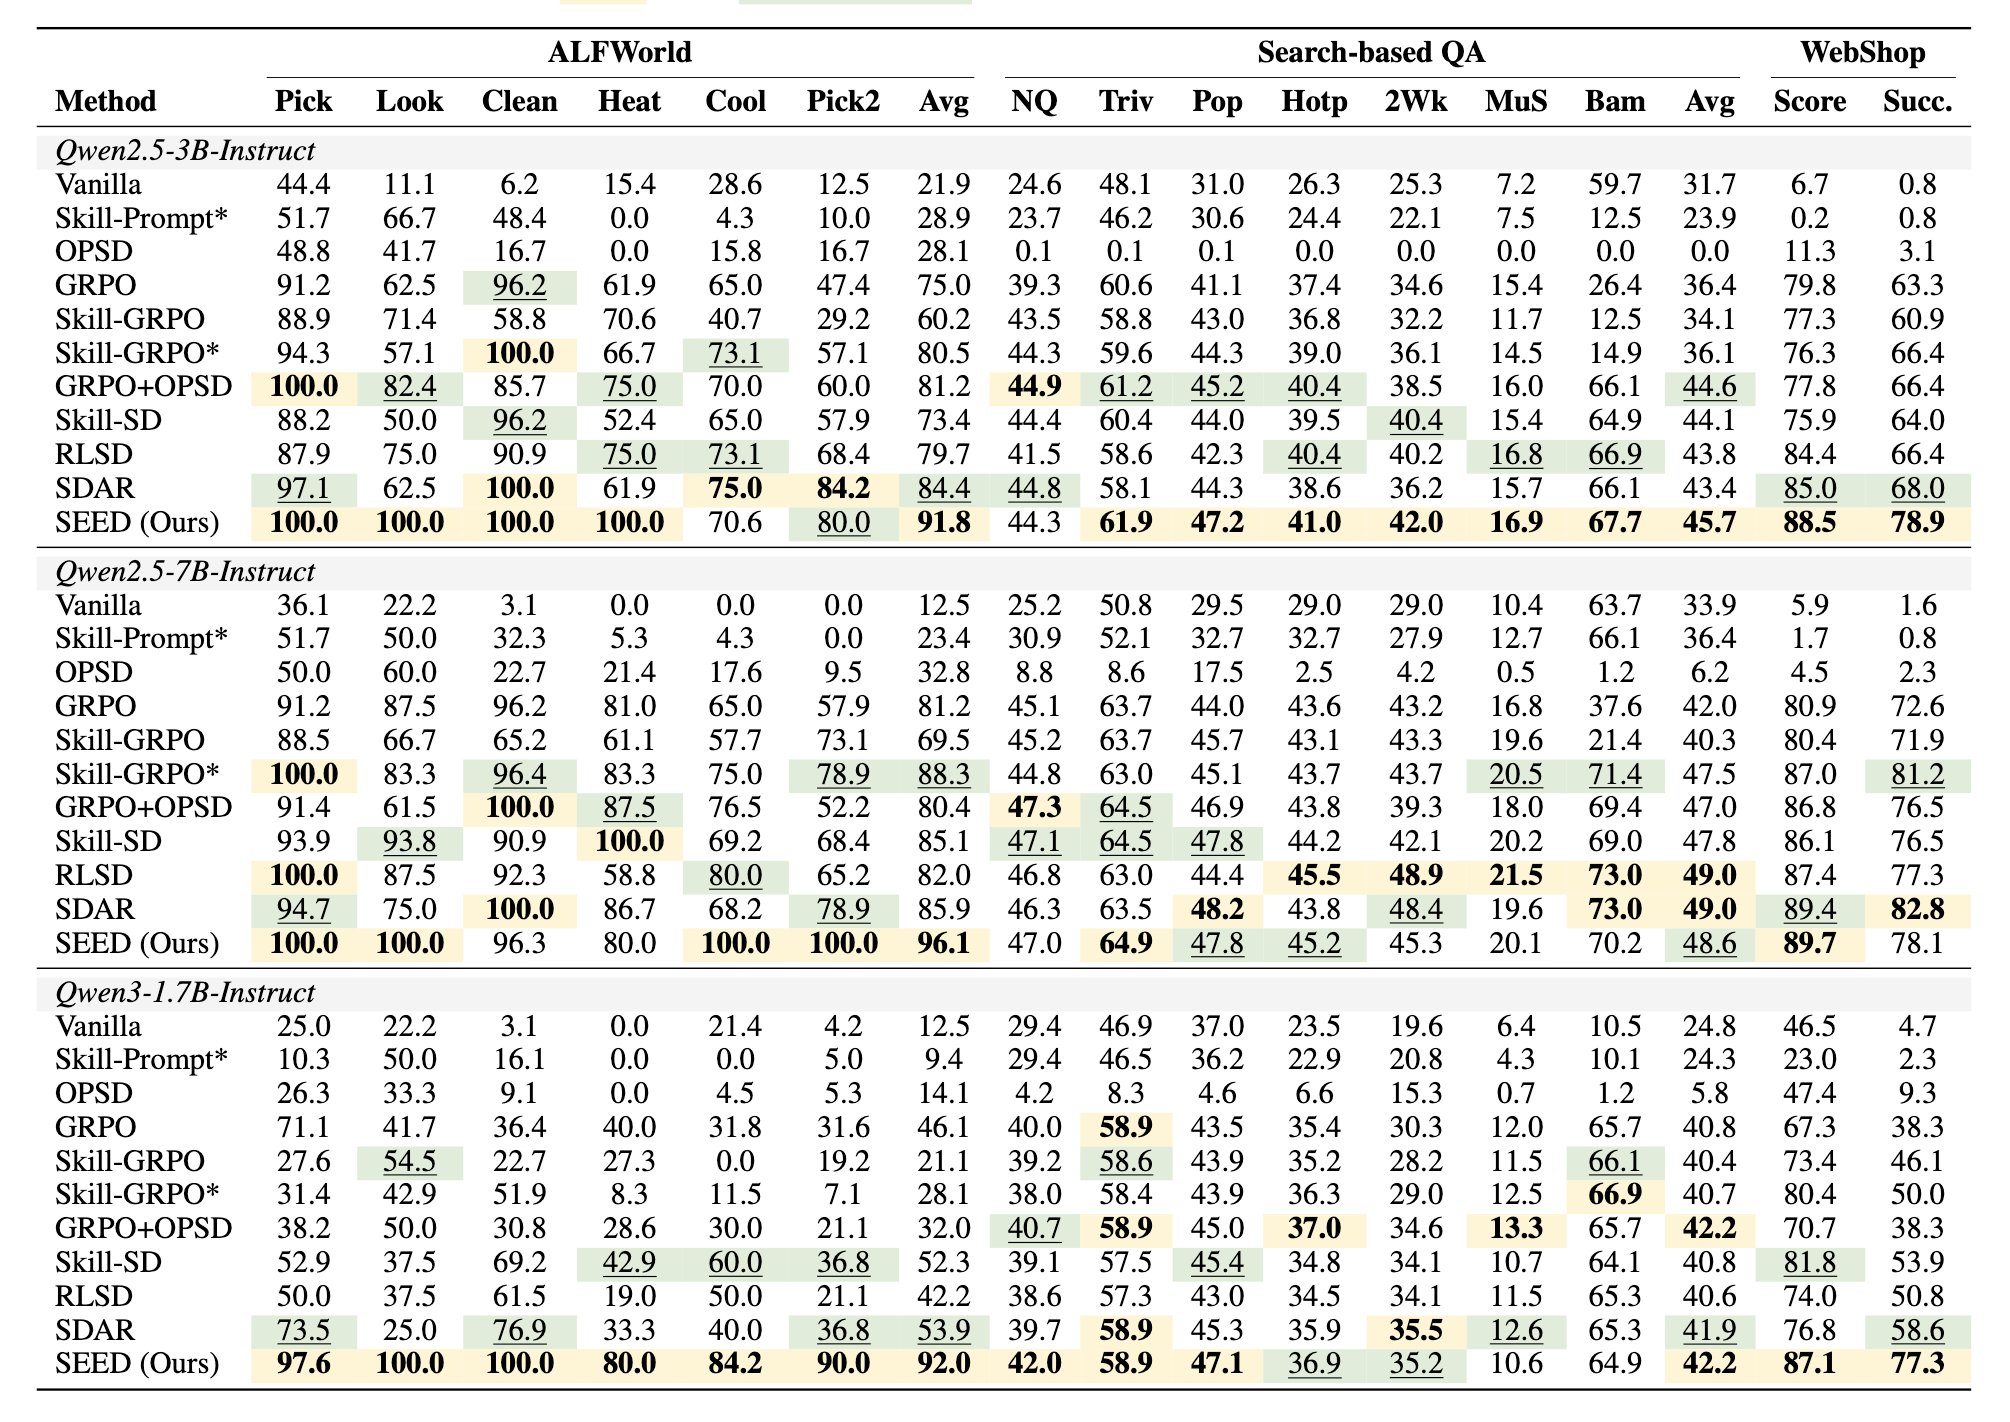
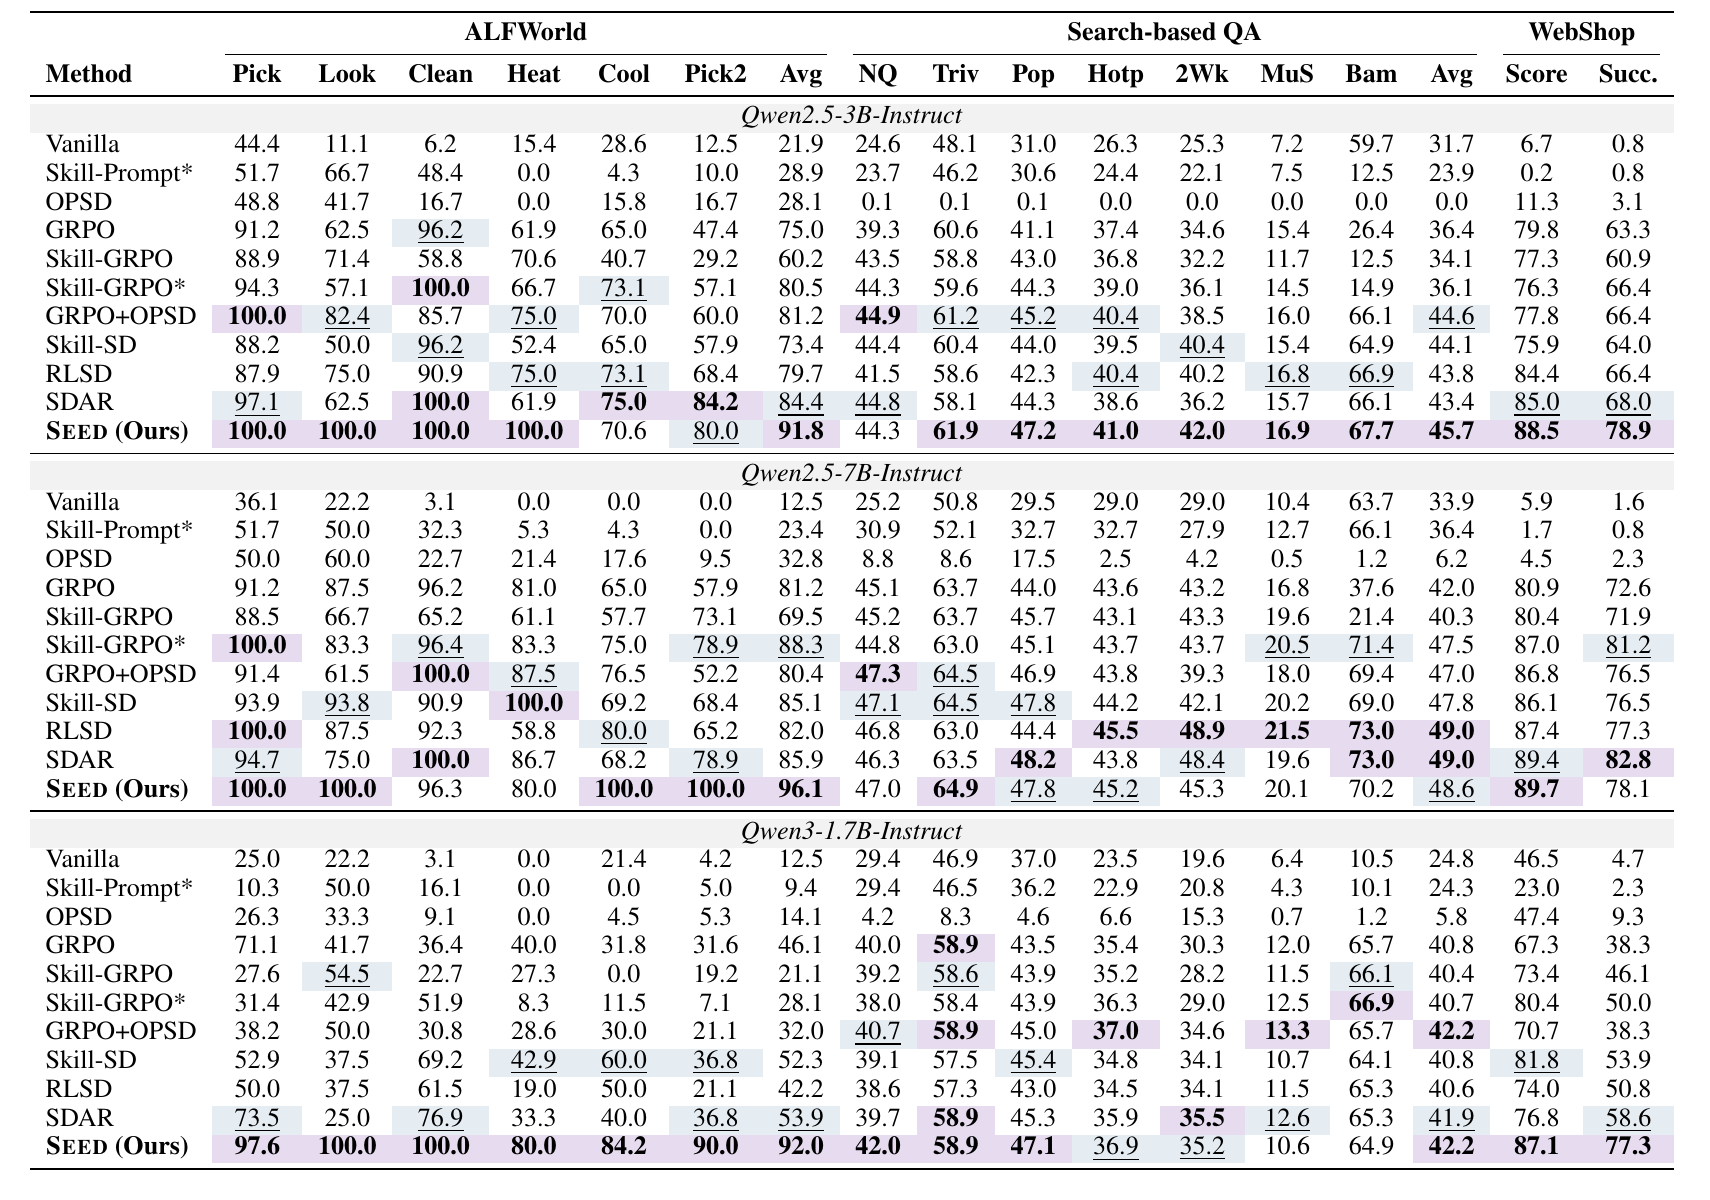
Update main results figure and remove duplicate news

diff --git a/README.md b/README.md
@@ -77,10 +77,6 @@ findings:
   <em>Figure 2: Main results.</em>
 </div>
 
-## News
-
-- **2026-07-15**: Initial paper and code release.
-
 ## Installation
 
 ### Install veRL
